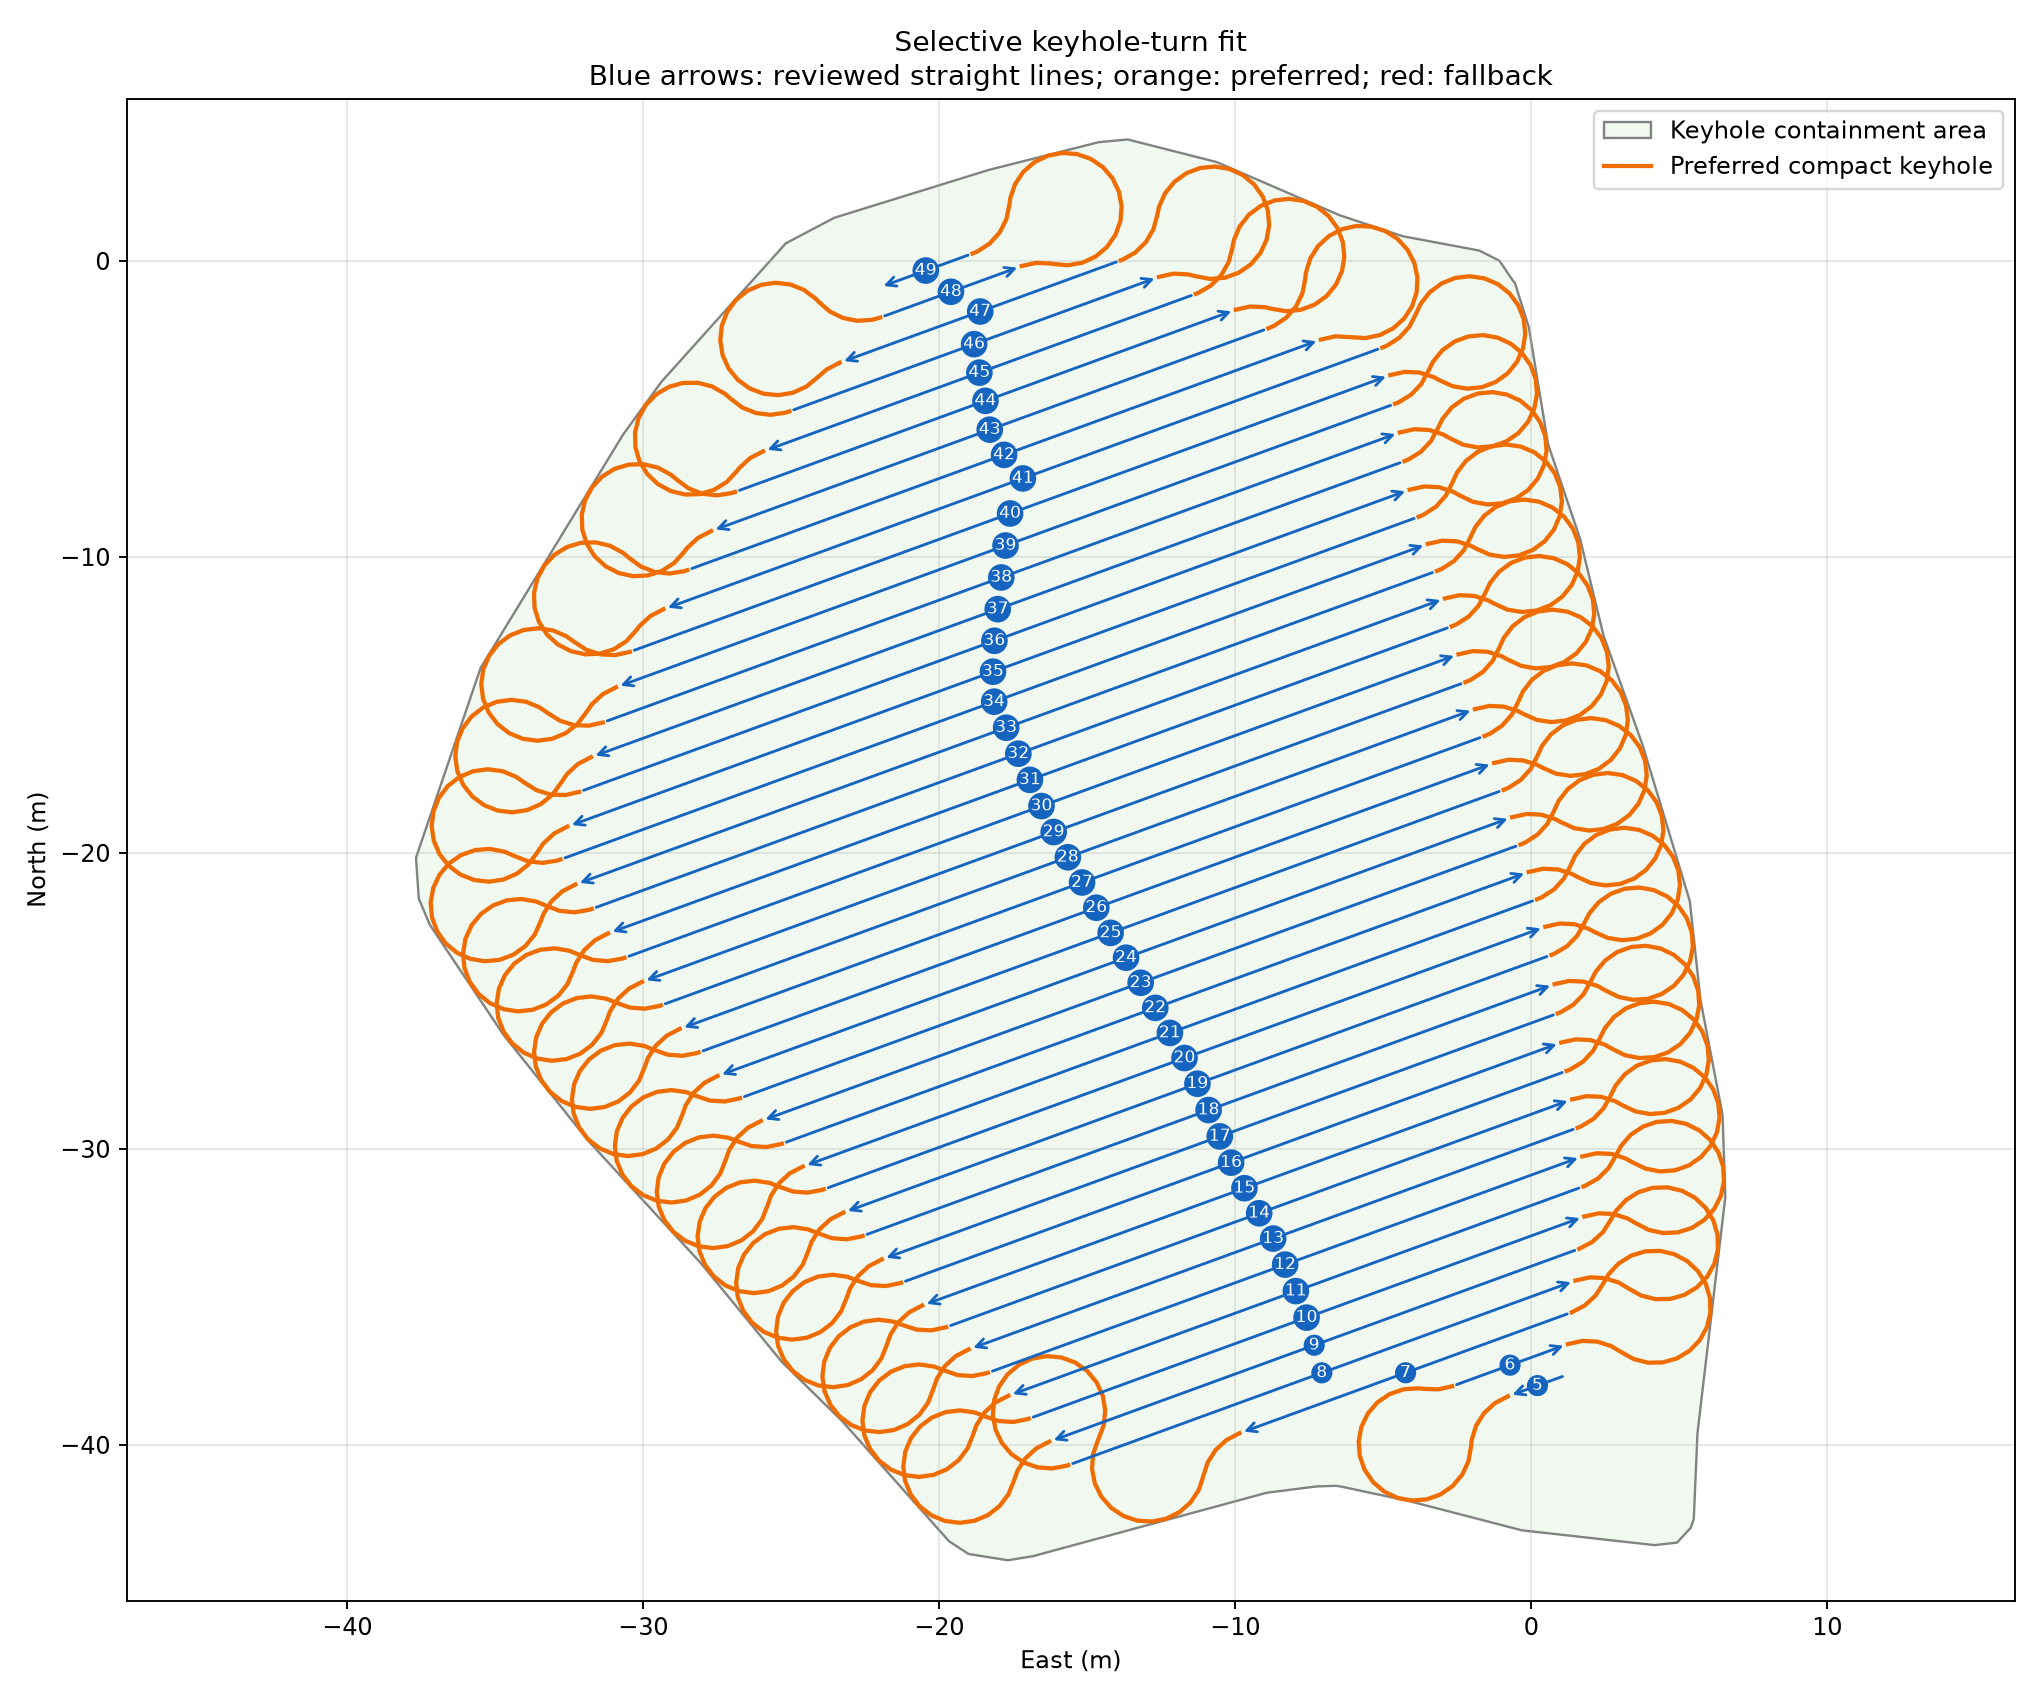
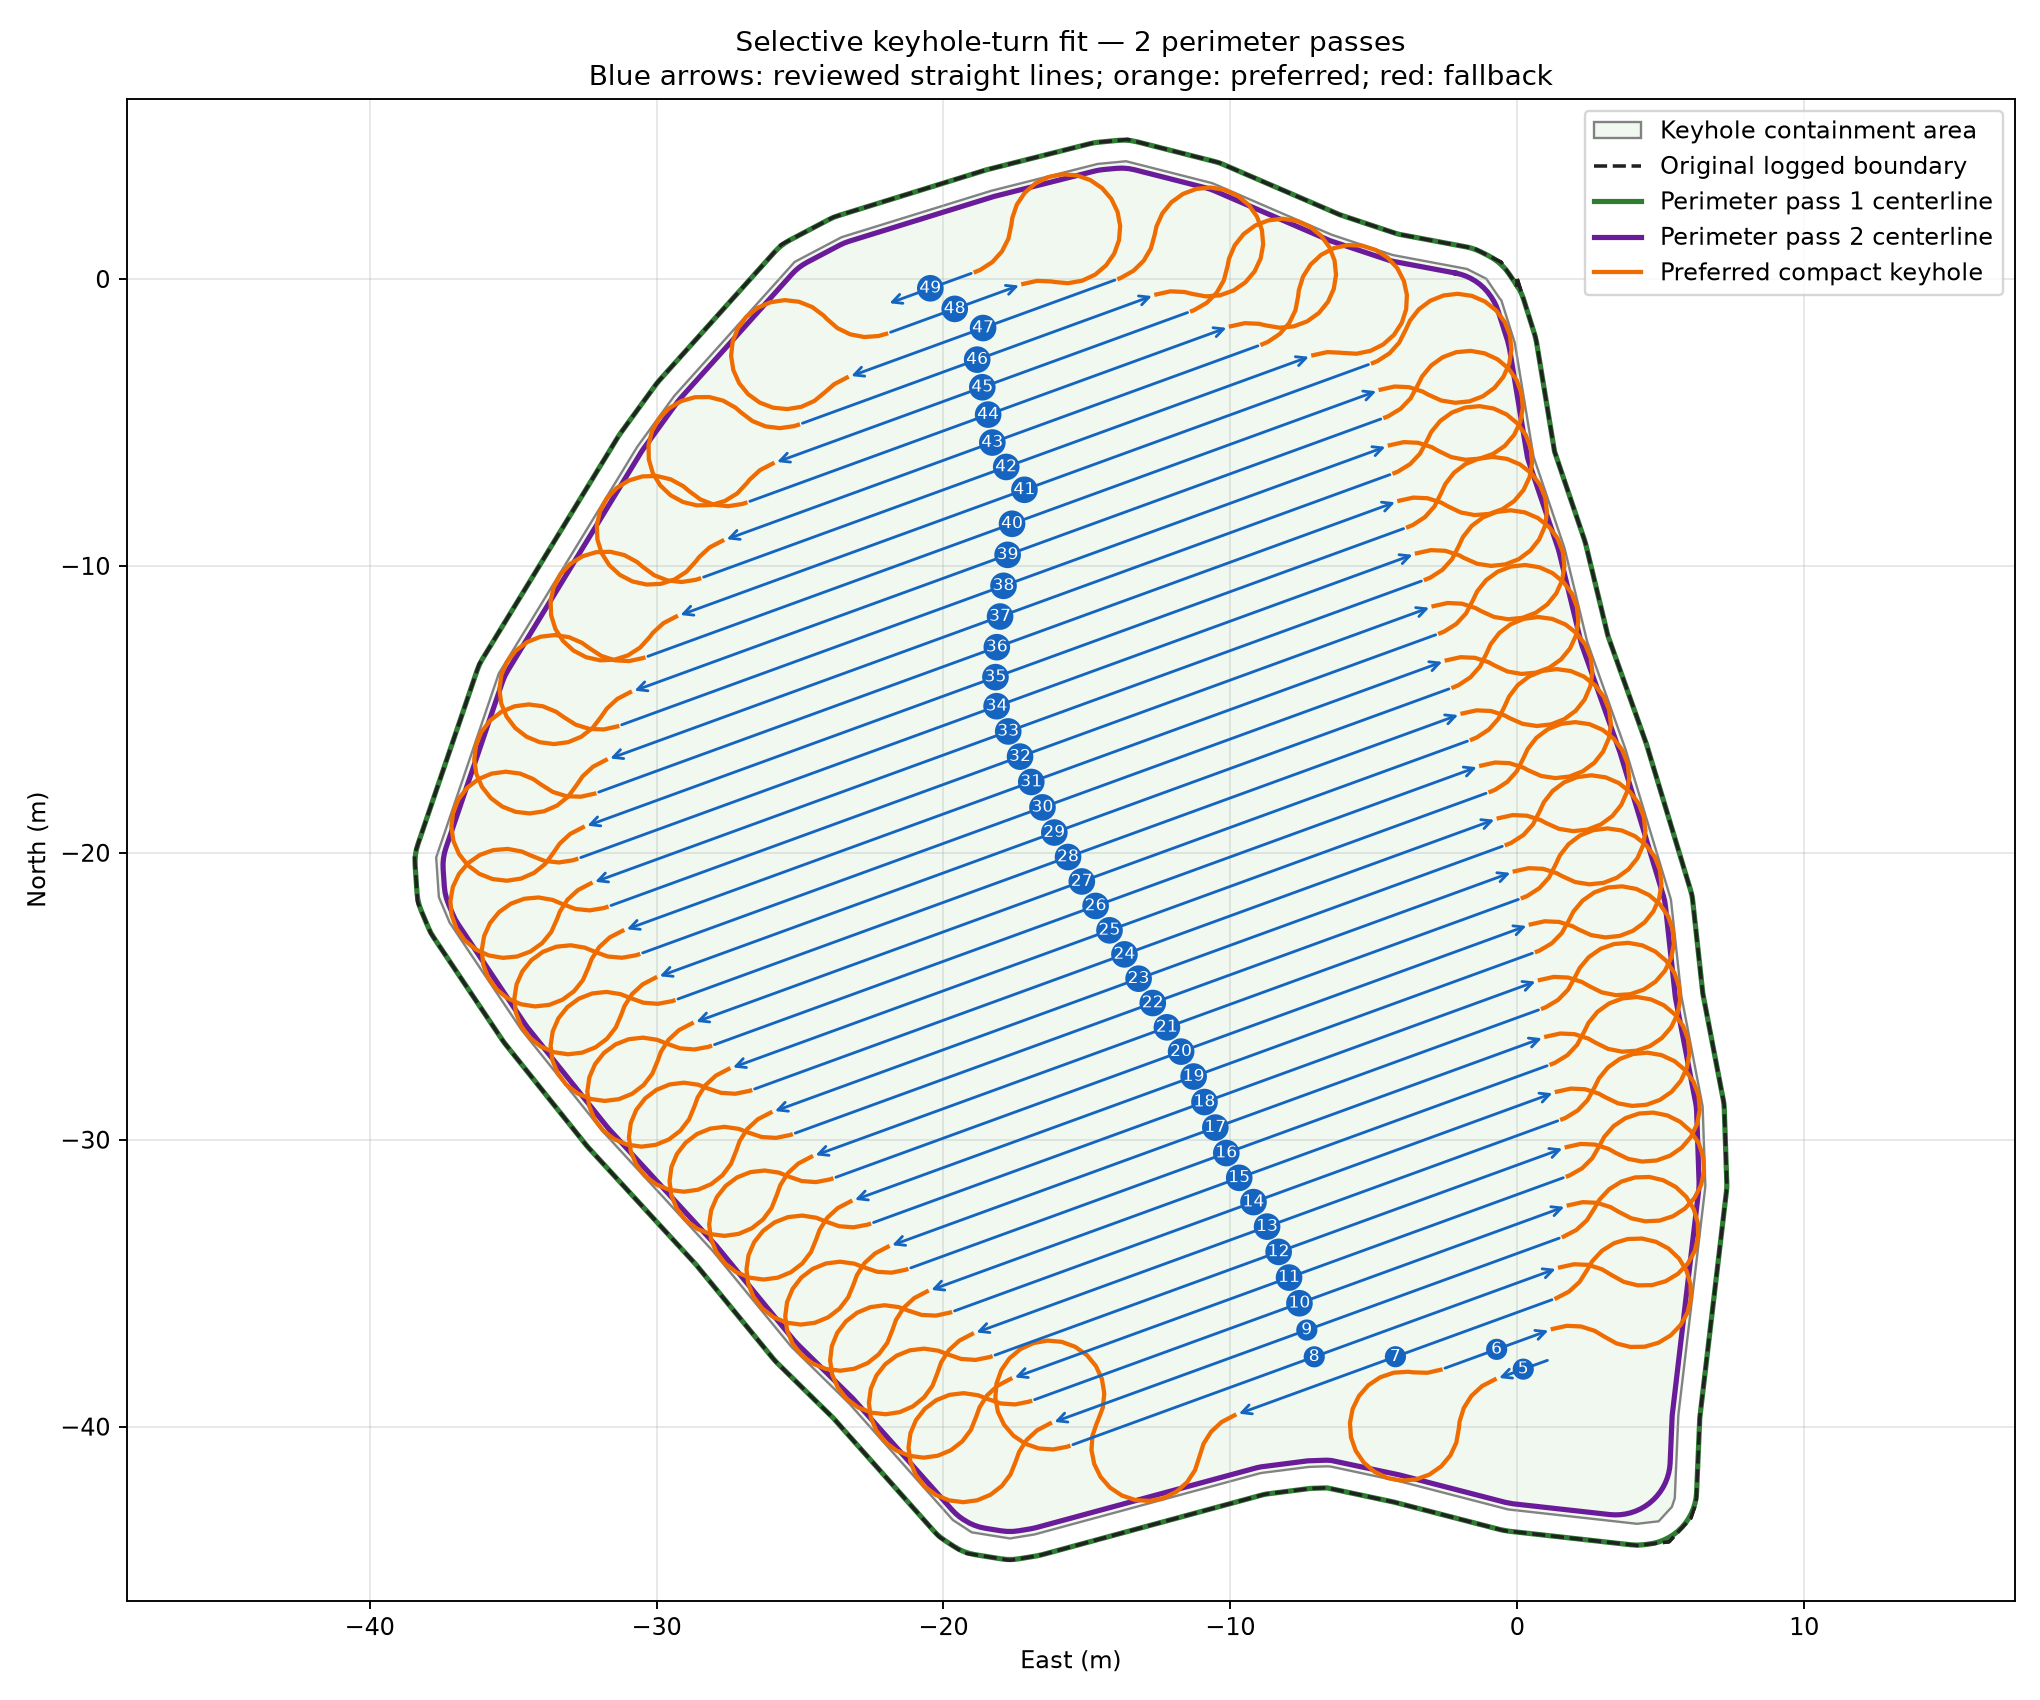
uddate 2:56b

diff --git a/tractor_rpi/pure-pursuit/mission_planning/site_coverage_planner_20260724.py b/tractor_rpi/pure-pursuit/mission_planning/site_coverage_planner_20260724.py
@@ -1018,6 +1018,16 @@ def run_preview(args: argparse.Namespace) -> int:
             ),
         )
         plotted_headland_passes.add(pass_number)
+    # Pass 1 may intentionally follow the logged boundary exactly. Draw the
+    # dashed survey line last so both coincident paths remain distinguishable.
+    ax.plot(
+        boundary_x,
+        boundary_y,
+        color="#212121",
+        linestyle="--",
+        linewidth=1.5,
+        zorder=4,
+    )
     included_stripes = [
         (sequence, stripe)
         for sequence, stripe in enumerate(stripes, 1)
